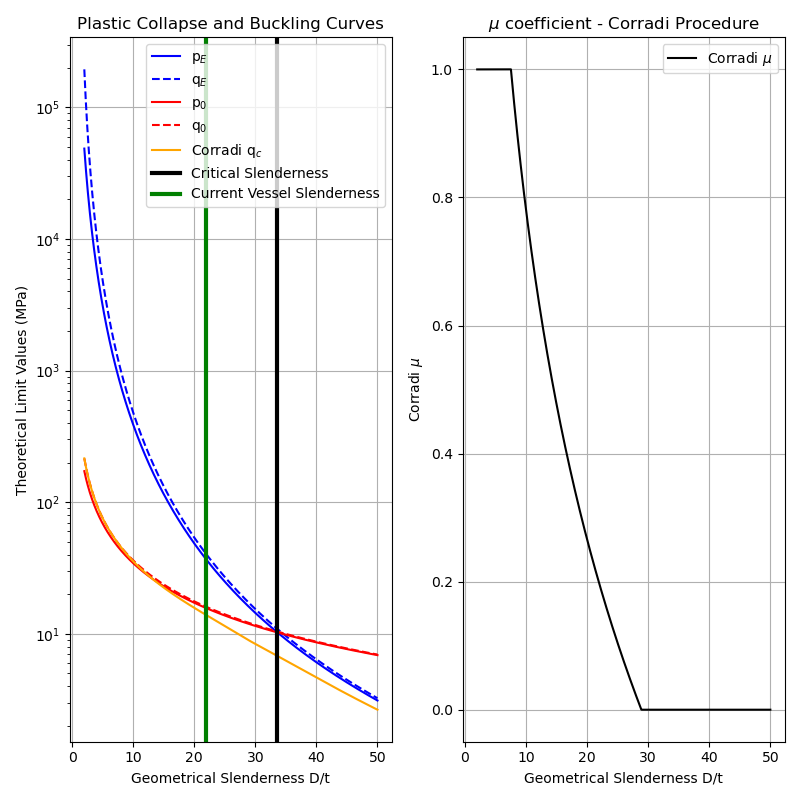
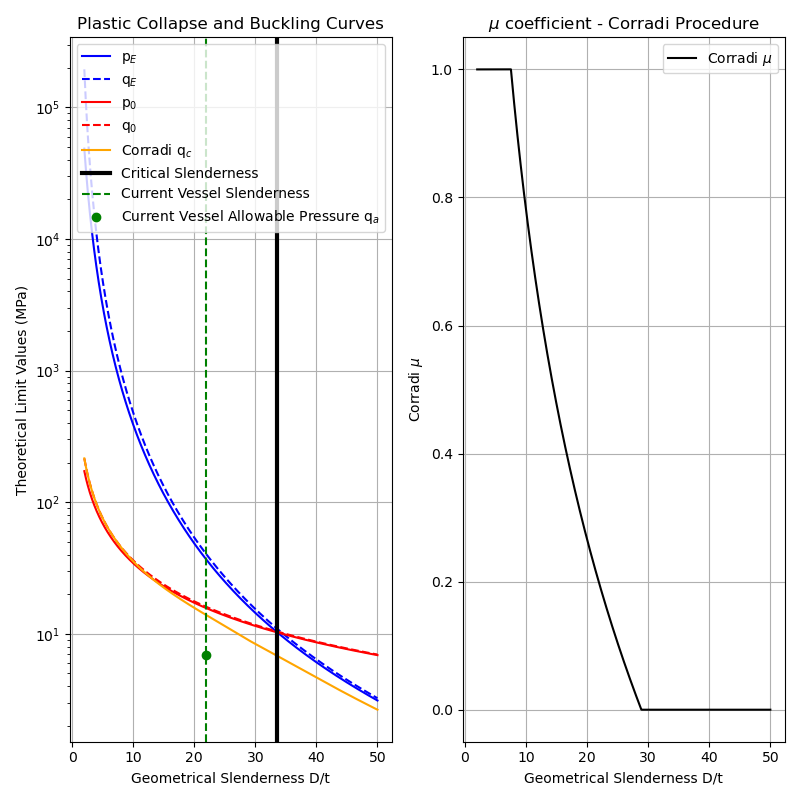
Slightly edited Corradi plot

Changed region(s): [[0.0938, 0.0625, 0.4688, 0.9062]]

diff --git a/src/main.py b/src/main.py
@@ -971,7 +971,8 @@ if not TS_flag:
                 plt.semilogy(Dt_ratio_plot, p_0_fun(Dt_ratio_plot), 'red', label='p$_0$')
                 plt.semilogy(Dt_ratio_plot, q_0_fun(Dt_ratio_plot), '--r', label='q$_0$')
                 plt.axvline(x = Dt_Crit_Ratio, color = 'black', linewidth = '3', label = 'Critical Slenderness')
-                plt.axvline(x = Current_Slenderness, color = 'green', linewidth = '3', label = 'Current Vessel Slenderness')
+                plt.axvline(x = Current_Slenderness, color = 'green', linestyle='--', linewidth = '1.5', label = 'Current Vessel Slenderness')
+                plt.plot(Current_Slenderness, Corradi_vessel[1], 'og', label='Current Vessel Allowable Pressure q$_a$')
                 plt.xlabel("Geometrical Slenderness D/t")
                 plt.ylabel("Theoretical Limit Values (MPa)")
                 plt.title("Plastic Collapse and Buckling Curves")
@@ -1008,7 +1009,8 @@ if not TS_flag:
                 plt.semilogy(Dt_ratio_plot, q_0_fun(Dt_ratio_plot), '--r', label='q$_0$')
                 plt.semilogy(Dt_ratio_plot, Corradi(Dt_ratio_plot)[0], 'orange', label='Corradi q$_c$')
                 plt.axvline(x = Dt_Crit_Ratio, color = 'black', linewidth = '3', label = 'Critical Slenderness')
-                plt.axvline(x = Current_Slenderness, color = 'green', linewidth = '3', label = 'Current Vessel Slenderness')
+                plt.axvline(x = Current_Slenderness, color = 'green', linestyle='--', linewidth = '1.5', label = 'Current Vessel Slenderness')
+                plt.plot(Current_Slenderness, Corradi_vessel[1], 'og', label='Current Vessel Allowable Pressure q$_a$')
                 plt.xlabel("Geometrical Slenderness D/t")
                 plt.ylabel("Theoretical Limit Values (MPa)")
                 plt.title("Plastic Collapse and Buckling Curves")
@@ -2679,7 +2681,7 @@ elif TS_flag:
                     print(e)
             
             if Collapse_pl_flag:
-                # ============================ 
+                # ============================
                 # Plastic collapse and buckling plots
                 # ============================
                 os.makedirs(TS_plots_directory_path, exist_ok=True)
@@ -2690,7 +2692,8 @@ elif TS_flag:
                 plt.semilogy(Dt_ratio_plot, p_0_fun(Dt_ratio_plot), 'red', label='p$_0$')
                 plt.semilogy(Dt_ratio_plot, q_0_fun(Dt_ratio_plot), '--r', label='q$_0$')
                 plt.axvline(x = Dt_Crit_Ratio, color = 'black', linewidth = '3', label = 'Critical Slenderness')
-                plt.axvline(x = Current_Slenderness, color = 'green', linewidth = '3', label = 'Current Vessel Slenderness')
+                plt.axvline(x = Current_Slenderness, color = 'green', linestyle='--', linewidth = '1.5', label = 'Current Vessel Slenderness')
+                plt.plot(Current_Slenderness, Corradi_vessel[1], 'og', label='Current Vessel Allowable Pressure q$_a$')
                 plt.xlabel("Geometrical Slenderness D/t")
                 plt.ylabel("Theoretical Limit Values (MPa)")
                 plt.title("Plastic Collapse and Buckling Curves")
@@ -2727,7 +2730,8 @@ elif TS_flag:
                 plt.semilogy(Dt_ratio_plot, q_0_fun(Dt_ratio_plot), '--r', label='q$_0$')
                 plt.semilogy(Dt_ratio_plot, Corradi(Dt_ratio_plot)[0], 'orange', label='Corradi q$_c$')
                 plt.axvline(x = Dt_Crit_Ratio, color = 'black', linewidth = '3', label = 'Critical Slenderness')
-                plt.axvline(x = Current_Slenderness, color = 'green', linewidth = '3', label = 'Current Vessel Slenderness')
+                plt.axvline(x = Current_Slenderness, color = 'green', linestyle='--', linewidth = '1.5', label = 'Current Vessel Slenderness')
+                plt.plot(Current_Slenderness, Corradi_vessel[1], 'og', label='Current Vessel Allowable Pressure q$_a$')
                 plt.xlabel("Geometrical Slenderness D/t")
                 plt.ylabel("Theoretical Limit Values (MPa)")
                 plt.title("Plastic Collapse and Buckling Curves")
